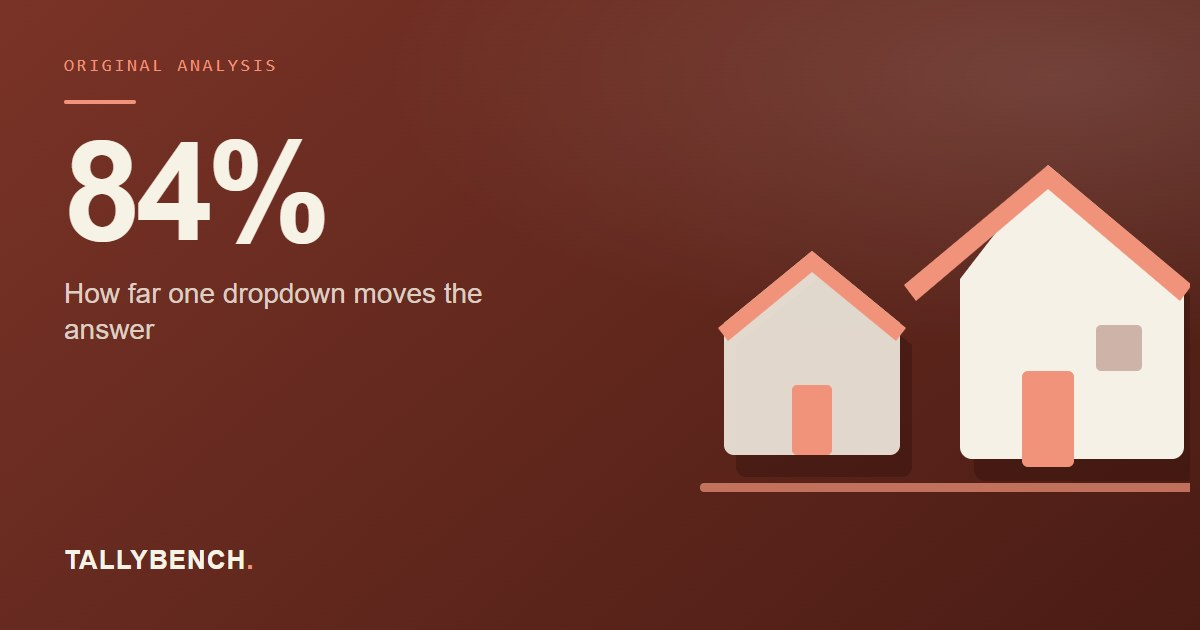
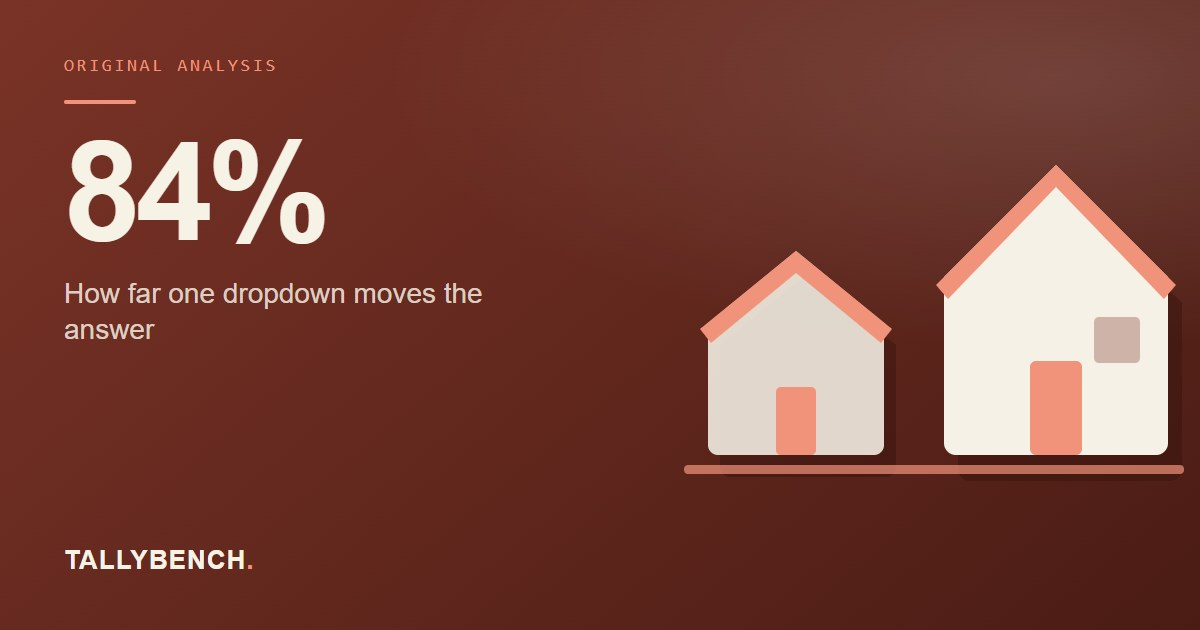
Show what the affordability maximum leaves you, and fix the twoHouses motif
Two things, both from feedback on the last commit.

THE MOTIF. The larger house rendered as a broken shape and the cause was
geometric, not stylistic: its body was centred on x=372 while the roof
apex sat at x=348. A 24px offset meant the left roof slope overshot the
wall by 56px while the right eave overhung by 8, so half the outline
floated free of the house. Both houses are now built to one rule, written
into a comment above the motif so the next one cannot repeat it: walls at
apex +/- w, roof at apex +/- (w+8), giving even eaves. Bases aligned at
y=290 so the two sit on the same ground line. Checked by asserting the
geometry — body centre equals apex, roof centred, overhangs equal on both
sides — rather than by looking at the render.

THE TOOL. house-affordability-calculator already answered "what is the
most I can borrow". It now also answers the question that actually
decides whether the number is livable, which is the finding from
yesterday's article: the DTI limit is applied to GROSS income while the
payment leaves a take-home account, and the label understates the burden
by about twelve points as a result.

New optional take-home input, defaulted to $6,012 so the panel
demonstrates itself against the page's own $90,000 income rather than
sitting empty. New readout showing housing plus existing debts, that sum
as a share of take-home, and what is left — with a line that changes at
35%, 45% and 55% and says plainly what each band means, including the
[…]

Changed region(s): [[0.555, 0.2413, 1.0, 0.7841], [0.8942, 0.3317, 0.925, 0.3619]]

diff --git a/house-affordability-calculator.html b/house-affordability-calculator.html
@@ -466,16 +466,29 @@ PERSONAL FINANCE · 206 TOOLS · 0 SIGN-UP
           <div class="field"><label>Property tax rate (%/yr of home value)</label><input type="number" id="affTaxRate" value="1.2" step="0.1" min="0"></div>
           <div class="field"><label>Home insurance rate (%/yr of home value)</label><input type="number" id="affInsRate" value="0.5" step="0.1" min="0"></div>
         </div>
-        <div class="field"><label>Monthly HOA fee ($)</label><input type="number" id="affHoa" value="0" step="10" min="0"></div>
+        <div class="row2">
+          <div class="field"><label>Monthly HOA fee ($)</label><input type="number" id="affHoa" value="0" step="10" min="0"></div>
+          <div class="field"><label>Monthly take-home pay ($)</label><input type="number" id="affTakeHome" value="6012" step="100" min="0"></div>
+        </div>
       </div>
+      <div style="display:grid;gap:16px;align-content:start;">
       <div class="readout">
         <div class="r-row"><span class="r-label">Max home price</span><span class="r-value" id="affMaxPrice">$0</span></div>
         <div class="r-row"><span class="r-label">Max loan amount</span><span class="r-value" id="affMaxLoan">$0</span></div>
         <div class="r-row"><span class="r-label">Estimated monthly payment</span><span class="r-value" id="affMonthly">$0</span></div>
         <div class="r-row"><span class="r-label">Down payment as % of price</span><span class="r-value" id="affDownPct" style="font-size:20px;">0%</span></div>
       </div>
+      <div class="readout" style="background:linear-gradient(160deg, var(--readout-bg-hi), var(--readout-bg));">
+        <div class="r-label" style="text-transform:uppercase;font-size:11px;margin-bottom:8px;color:#9C9284;">What it leaves you</div>
+        <div class="r-row"><span class="r-label">Housing + existing debts</span><span class="r-value" id="affCommitted">$0</span></div>
+        <div class="r-row"><span class="r-label">Share of take-home pay</span><span class="r-value" id="affTakeHomePct">0%</span></div>
+        <div class="r-row"><span class="r-label">Left for everything else</span><span class="r-value" id="affLeftOver" style="font-size:22px;">$0</span></div>
+        <div class="r-sub" id="affComfort" style="margin-top:10px;line-height:1.45;"></div>
+      </div>
+      </div>
       <div class="field-warning" id="affWarning"></div>
     </div>
+    <p style="font-size:13px;color:var(--ink-muted);margin:14px 0 0;">The debt-to-income limit above is measured against <strong>gross</strong> income, but the payment comes out of take-home. That gap is why the second panel exists &mdash; enter your real monthly take-home (the <a href="paycheck-calculator.html">paycheck calculator</a> works it out) to see what the maximum actually leaves you. We computed <a href="affordability-dti-what-it-buys.html">what each DTI is worth across incomes</a>, and the spread between 28% and 50% is 84% more house.</p>
   </section>
 
   <section class="article">

diff --git a/script.js b/script.js
@@ -6073,9 +6073,49 @@ function amortizationToCSV(years, cur){
     document.getElementById('affMaxLoan').textContent = money(maxLoan);
     document.getElementById('affMonthly').textContent = money(monthlyPayment);
     document.getElementById('affDownPct').textContent = downPct.toFixed(1)+'%';
+
+    // The DTI limit above is applied to GROSS income, but the payment leaves a
+    // take-home account. Re-expressing the same maximum against real net pay is
+    // the whole point of this panel: a 50% DTI approval is ~62% of take-home for
+    // a typical single filer, which the "50%" label does not suggest.
+    const takeHomeEl = document.getElementById('affTakeHome');
+    if(takeHomeEl){
+      const takeHome = parseFloat(takeHomeEl.value)||0;
+      const committed = monthlyPayment + debts;
+      const pctEl = document.getElementById('affTakeHomePct');
+      const leftEl = document.getElementById('affLeftOver');
+      const noteEl = document.getElementById('affComfort');
+      document.getElementById('affCommitted').textContent = money(committed);
+
+      if(takeHome <= 0){
+        pctEl.textContent = '—';
+        leftEl.textContent = '—';
+        if(noteEl) noteEl.textContent = 'Enter your monthly take-home pay to see what this maximum would leave you.';
+      } else {
+        const pct = (committed/takeHome)*100;
+        const left = takeHome - committed;
+        pctEl.textContent = pct.toFixed(0)+'%';
+        leftEl.textContent = money(left);
+        if(noteEl){
+          let note;
+          if(left <= 0){
+            note = 'This payment exceeds your take-home pay entirely. Nothing is left for food, utilities, transport or saving.';
+          } else if(pct >= 55){
+            note = 'Over half your take-home is committed before a single other bill. Retirement saving and an emergency fund are unlikely to survive this.';
+          } else if(pct >= 45){
+            note = 'A stretch. Workable with a stable dual income and an emergency fund already in place, uncomfortable without one.';
+          } else if(pct >= 35){
+            note = 'Within the range most households can carry while still saving.';
+          } else {
+            note = 'Comfortable. This leaves room to save, absorb a surprise, and keep the retirement contribution running.';
+          }
+          noteEl.textContent = note + ' That remainder still has to cover food, utilities, transport, healthcare and every repair.';
+        }
+      }
+    }
   }
 
-  ['affIncome','affDebts','affDown','affRate','affTerm','affDTI','affTaxRate','affInsRate','affHoa'].forEach(id=>{
+  ['affIncome','affDebts','affDown','affRate','affTerm','affDTI','affTaxRate','affInsRate','affHoa','affTakeHome'].forEach(id=>{
     const el = document.getElementById(id);
     if(!el) return;
     el.addEventListener('input', calc);

diff --git a/build/art-motifs.js b/build/art-motifs.js
@@ -143,17 +143,23 @@ module.exports = {
   // the same income, two very different answers — a conservative house beside
   // the one a lender would stretch to. Drawn for the affordability piece, where
   // the whole finding is the size of the gap between the two.
-  twoHouses: c => `<g transform="translate(30,110)">
+  // Geometry rule for both houses, learned by getting it wrong: the body must be
+  // centred on the roof apex. Walls at apex +/- w, roof at apex +/- (w+8) so the
+  // eaves overhang evenly. Getting the body 24px off-centre makes the left slope
+  // overshoot the wall by 56px and the house reads as broken.
+  //   small: apex 112, walls  24..200, roof  16..208, base 290
+  //   large: apex 372, walls 260..484, roof 252..492, base 290
+  twoHouses: c => `<g transform="translate(14,110)">
     <path d="M112 96 L200 168 v122 a10 10 0 0 1 -10 10 H34 a10 10 0 0 1 -10 -10 V168 z" fill="${c.deep}" opacity="0.5" transform="translate(12,12)"/>
     <path d="M112 86 L200 158 v122 a10 10 0 0 1 -10 10 H34 a10 10 0 0 1 -10 -10 V158 z" fill="#F6F1E6" opacity="0.88"/>
-    <path d="M112 86 L206 163 L196 176 L112 107 L28 176 L18 163 z" fill="${c.accent}"/>
-    <rect x="92" y="220" width="40" height="70" rx="5" fill="${c.accent}"/>
-    <path d="M348 8 L484 122 v168 a12 12 0 0 1 -12 12 H272 a12 12 0 0 1 -12 -12 V122 z" fill="${c.deep}" opacity="0.5" transform="translate(14,14)"/>
-    <path d="M348 0 L484 114 v168 a12 12 0 0 1 -12 12 H272 a12 12 0 0 1 -12 -12 V114 z" fill="#F6F1E6"/>
-    <path d="M348 0 L492 120 L480 136 L348 24 L216 136 L204 120 z" fill="${c.accent}"/>
-    <rect x="322" y="206" width="52" height="96" rx="6" fill="${c.accent}"/>
-    <rect x="396" y="160" width="46" height="46" rx="5" fill="${c.g[0]}" opacity="0.32"/>
-    <rect x="0" y="318" width="500" height="9" rx="4" fill="${c.accent}" opacity="0.7"/></g>`,
+    <path d="M112 86 L208 164 L197 178 L112 108 L27 178 L16 164 z" fill="${c.accent}"/>
+    <rect x="92" y="222" width="40" height="68" rx="5" fill="${c.accent}"/>
+    <path d="M372 12 L484 124 v166 a12 12 0 0 1 -12 12 H272 a12 12 0 0 1 -12 -12 V124 z" fill="${c.deep}" opacity="0.5" transform="translate(14,14)"/>
+    <path d="M372 0 L484 112 v166 a12 12 0 0 1 -12 12 H272 a12 12 0 0 1 -12 -12 V112 z" fill="#F6F1E6"/>
+    <path d="M372 0 L492 120 L480 134 L372 22 L264 134 L252 120 z" fill="${c.accent}"/>
+    <rect x="346" y="196" width="52" height="94" rx="6" fill="${c.accent}"/>
+    <rect x="410" y="152" width="46" height="46" rx="5" fill="${c.g[0]}" opacity="0.32"/>
+    <rect x="0" y="300" width="500" height="9" rx="4" fill="${c.accent}" opacity="0.7"/></g>`,
 
   house: c => `<g transform="translate(70,86)">
     <path d="M196 20 L384 178 v212 a16 16 0 0 1 -16 16 H24 a16 16 0 0 1 -16 -16 V178 z" fill="${c.deep}" opacity="0.5" transform="translate(18,18)"/>
